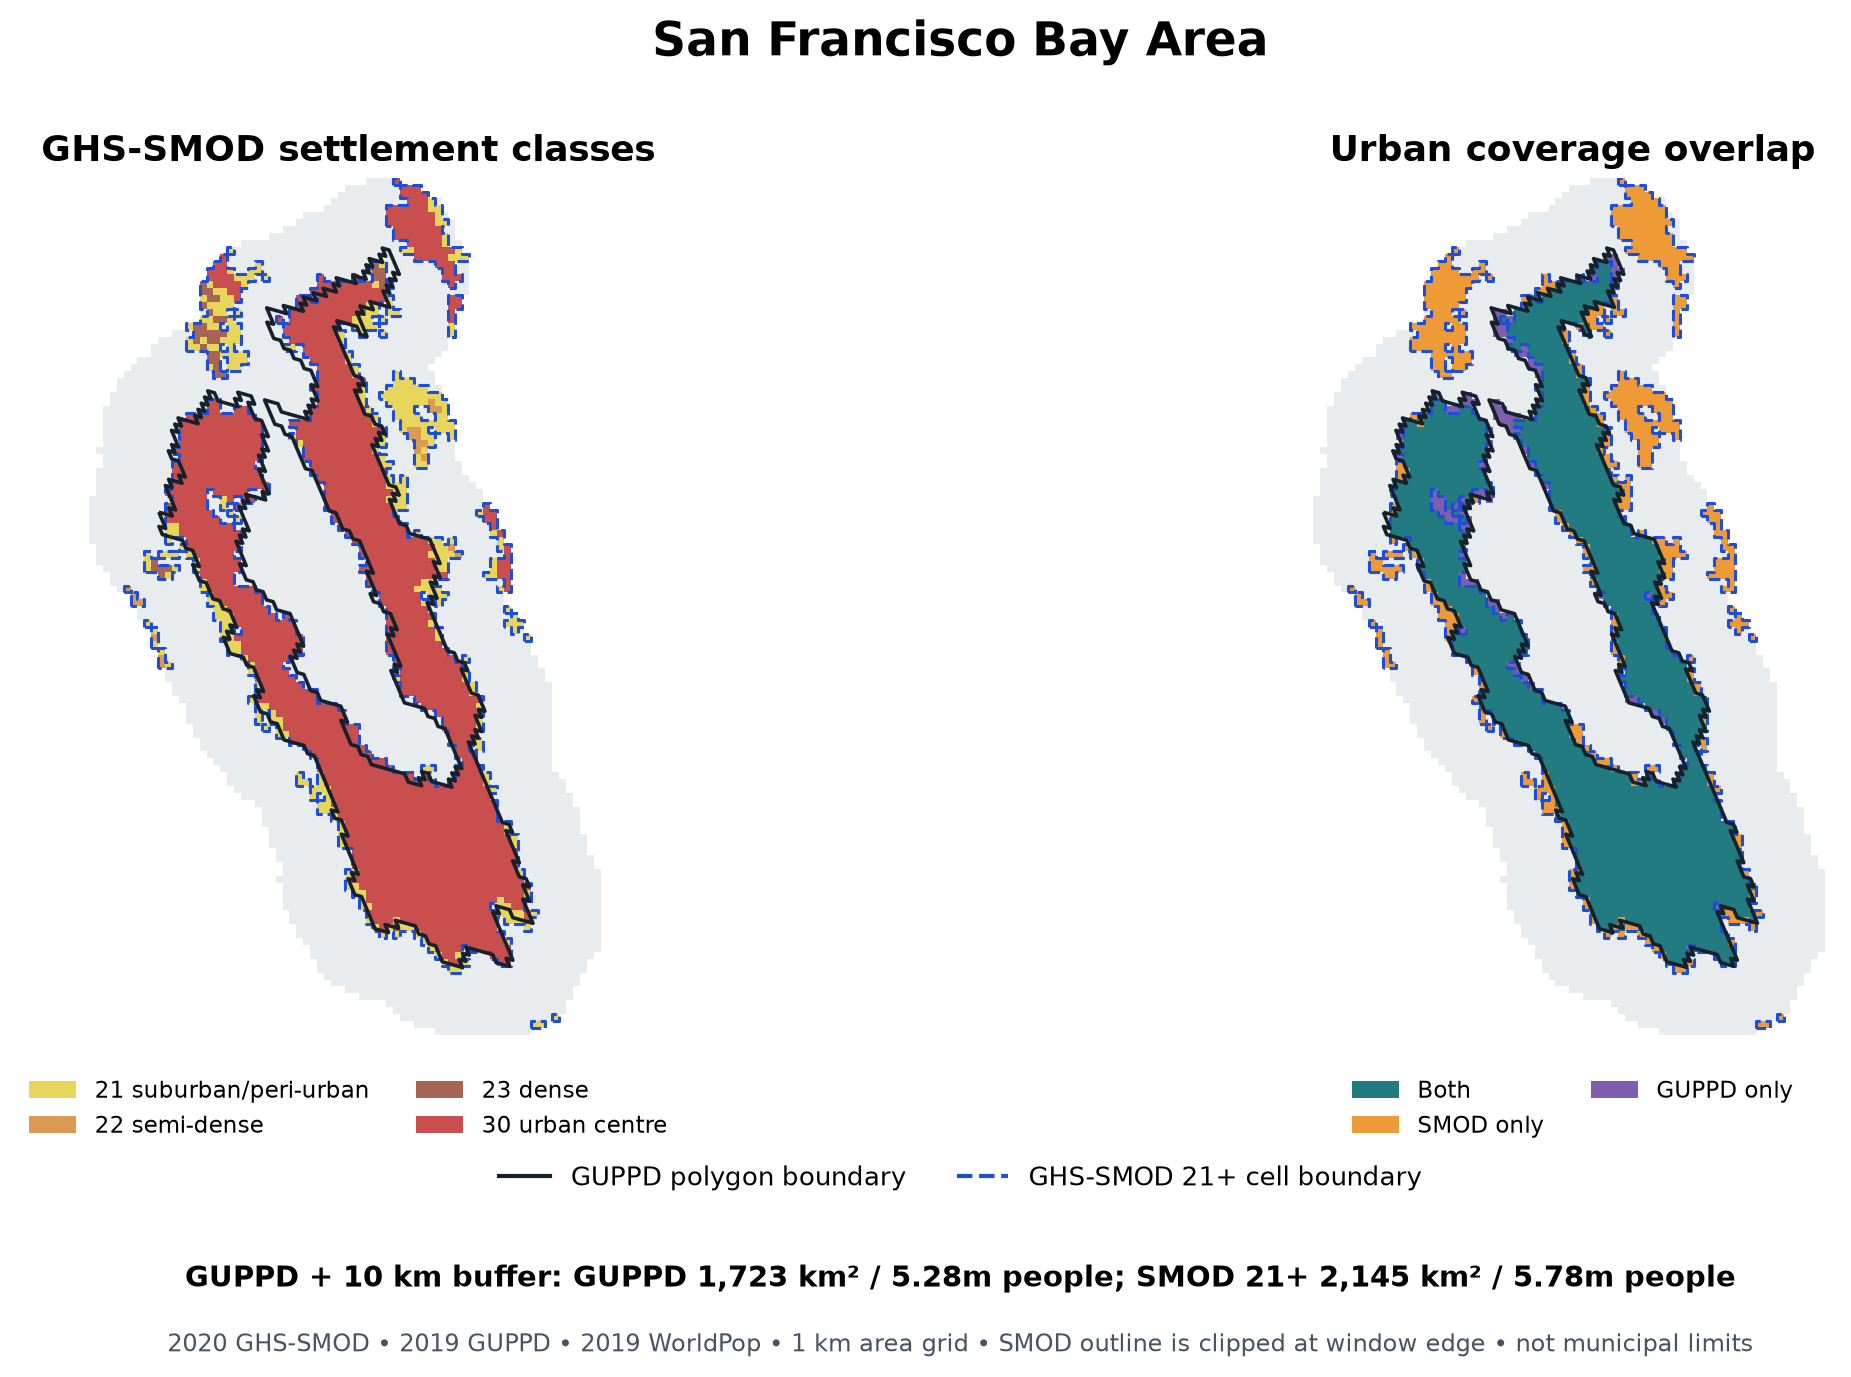
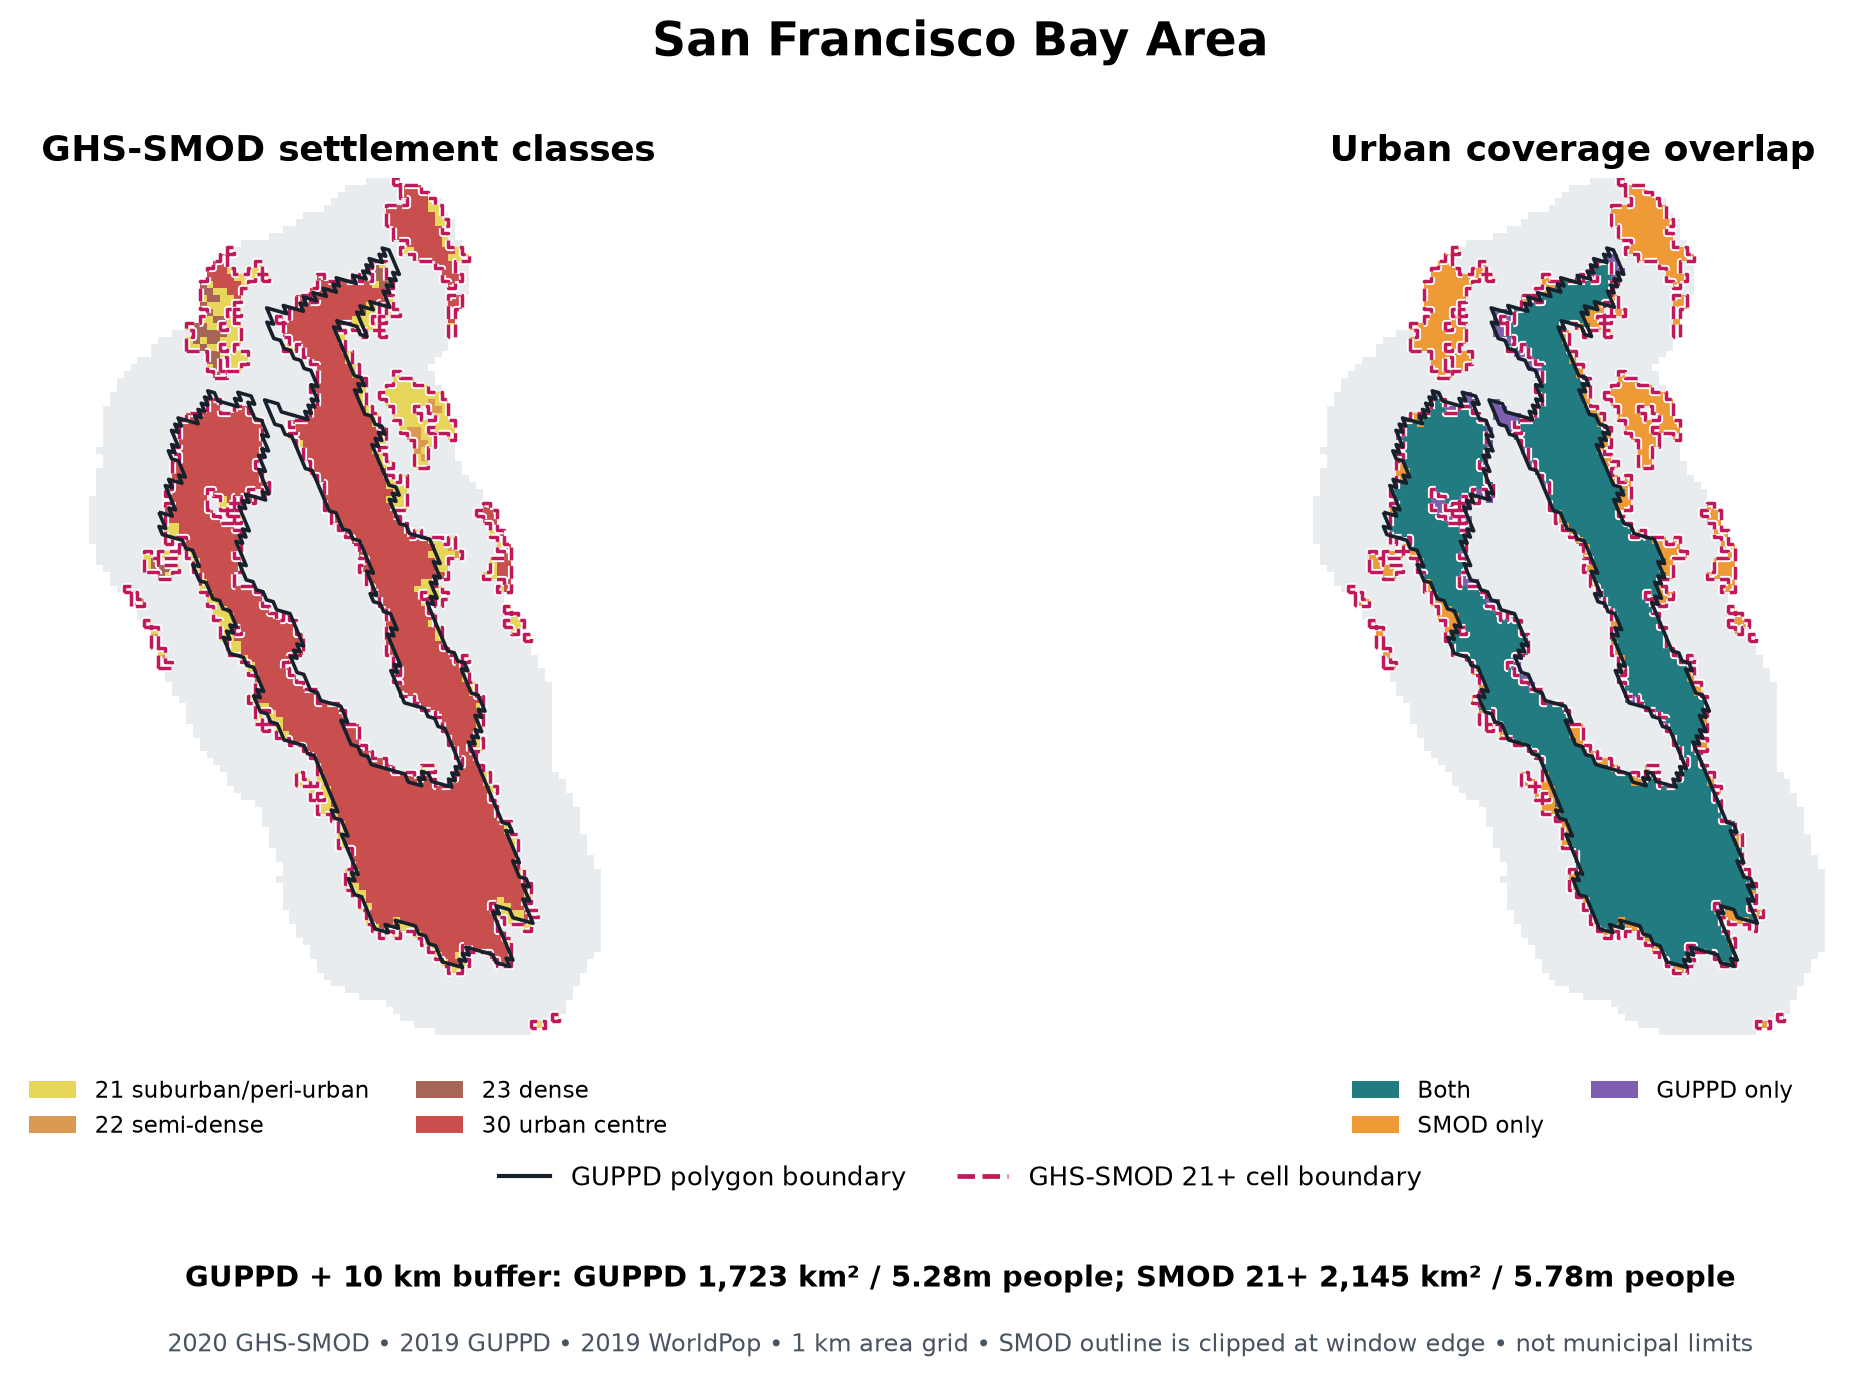
docs: improve SMOD boundary map contrast

diff --git a/scripts/03_checks/compare_smod_guppd_cities.py b/scripts/03_checks/compare_smod_guppd_cities.py
@@ -25,6 +25,7 @@ import matplotlib.pyplot as plt
 from matplotlib.colors import ListedColormap
 from matplotlib.patches import Patch
 from matplotlib.lines import Line2D
+import matplotlib.patheffects as path_effects
 import numpy as np
 import rasterio
 from rasterio.features import geometry_mask, shapes
@@ -132,8 +133,12 @@ def plot_city(path: Path, label: str, smod, src, polygon, in_buffer, in_guppd, i
     smod_boundary = gpd.GeoSeries(smod_polygons, crs=5070).boundary
     guppd_boundary = gpd.GeoSeries([polygon], crs=5070).boundary
     for ax in axes:
-        smod_boundary.plot(ax=ax, color='#1d4ed8', linewidth=1.1,
+        smod_boundary.plot(ax=ax, color='#c2185b', linewidth=1.25,
                            linestyle='--', zorder=4)
+        ax.collections[-1].set_path_effects([
+            path_effects.Stroke(linewidth=2.6, foreground='white'),
+            path_effects.Normal(),
+        ])
         guppd_boundary.plot(ax=ax, color='#17212b', linewidth=1.3, zorder=5)
         ax.set_xlim(src.bounds.left, src.bounds.right)
         ax.set_ylim(src.bounds.bottom, src.bounds.top)
@@ -157,7 +162,7 @@ def plot_city(path: Path, label: str, smod, src, polygon, in_buffer, in_guppd, i
     fig.legend(handles=[
         Line2D([0], [0], color='#17212b', linewidth=1.5,
                label='GUPPD polygon boundary'),
-        Line2D([0], [0], color='#1d4ed8', linewidth=1.5, linestyle='--',
+        Line2D([0], [0], color='#c2185b', linewidth=1.7, linestyle='--',
                label='GHS-SMOD 21+ cell boundary'),
     ], loc='lower center', bbox_to_anchor=(0.5, 0.15), ncol=2,
         frameon=False, fontsize=9.2)

diff --git a/docs/evidence/chiara_global_invest_comparison.md b/docs/evidence/chiara_global_invest_comparison.md
@@ -34,7 +34,7 @@ The figures compare one **level-30 GUPPD urban region** for each named city with
 
 Most GUPPD population is also in SMOD 21+: **99.4%** in the Bay Area region and **98.5%** in Minneapolis–Saint Paul on the common WorldPop population grid. The extra SMOD-only areas contain about **0.53 million** and **0.71 million** people, respectively; GUPPD-only areas contain about 0.03 million in each. These are support differences, not predicted depression cases. The mapped SMOD-only areas include suburban/peri-urban cells and, in the Bay Area buffer, some separate urban-centre cells.
 
-Both maps draw the **GUPPD polygon in solid black** and the **GHS-SMOD 21+ raster-cell boundary in dashed blue**. The latter is clipped at the buffer edge.
+Both maps draw the **GUPPD polygon in solid black** and the **GHS-SMOD 21+ raster-cell boundary in dashed magenta with a thin white halo**. The latter is clipped at the buffer edge.
 
 ![San Francisco Bay Area GHS-SMOD classes and overlap with GUPPD](figures/smod_guppd_san_francisco.png)
 
